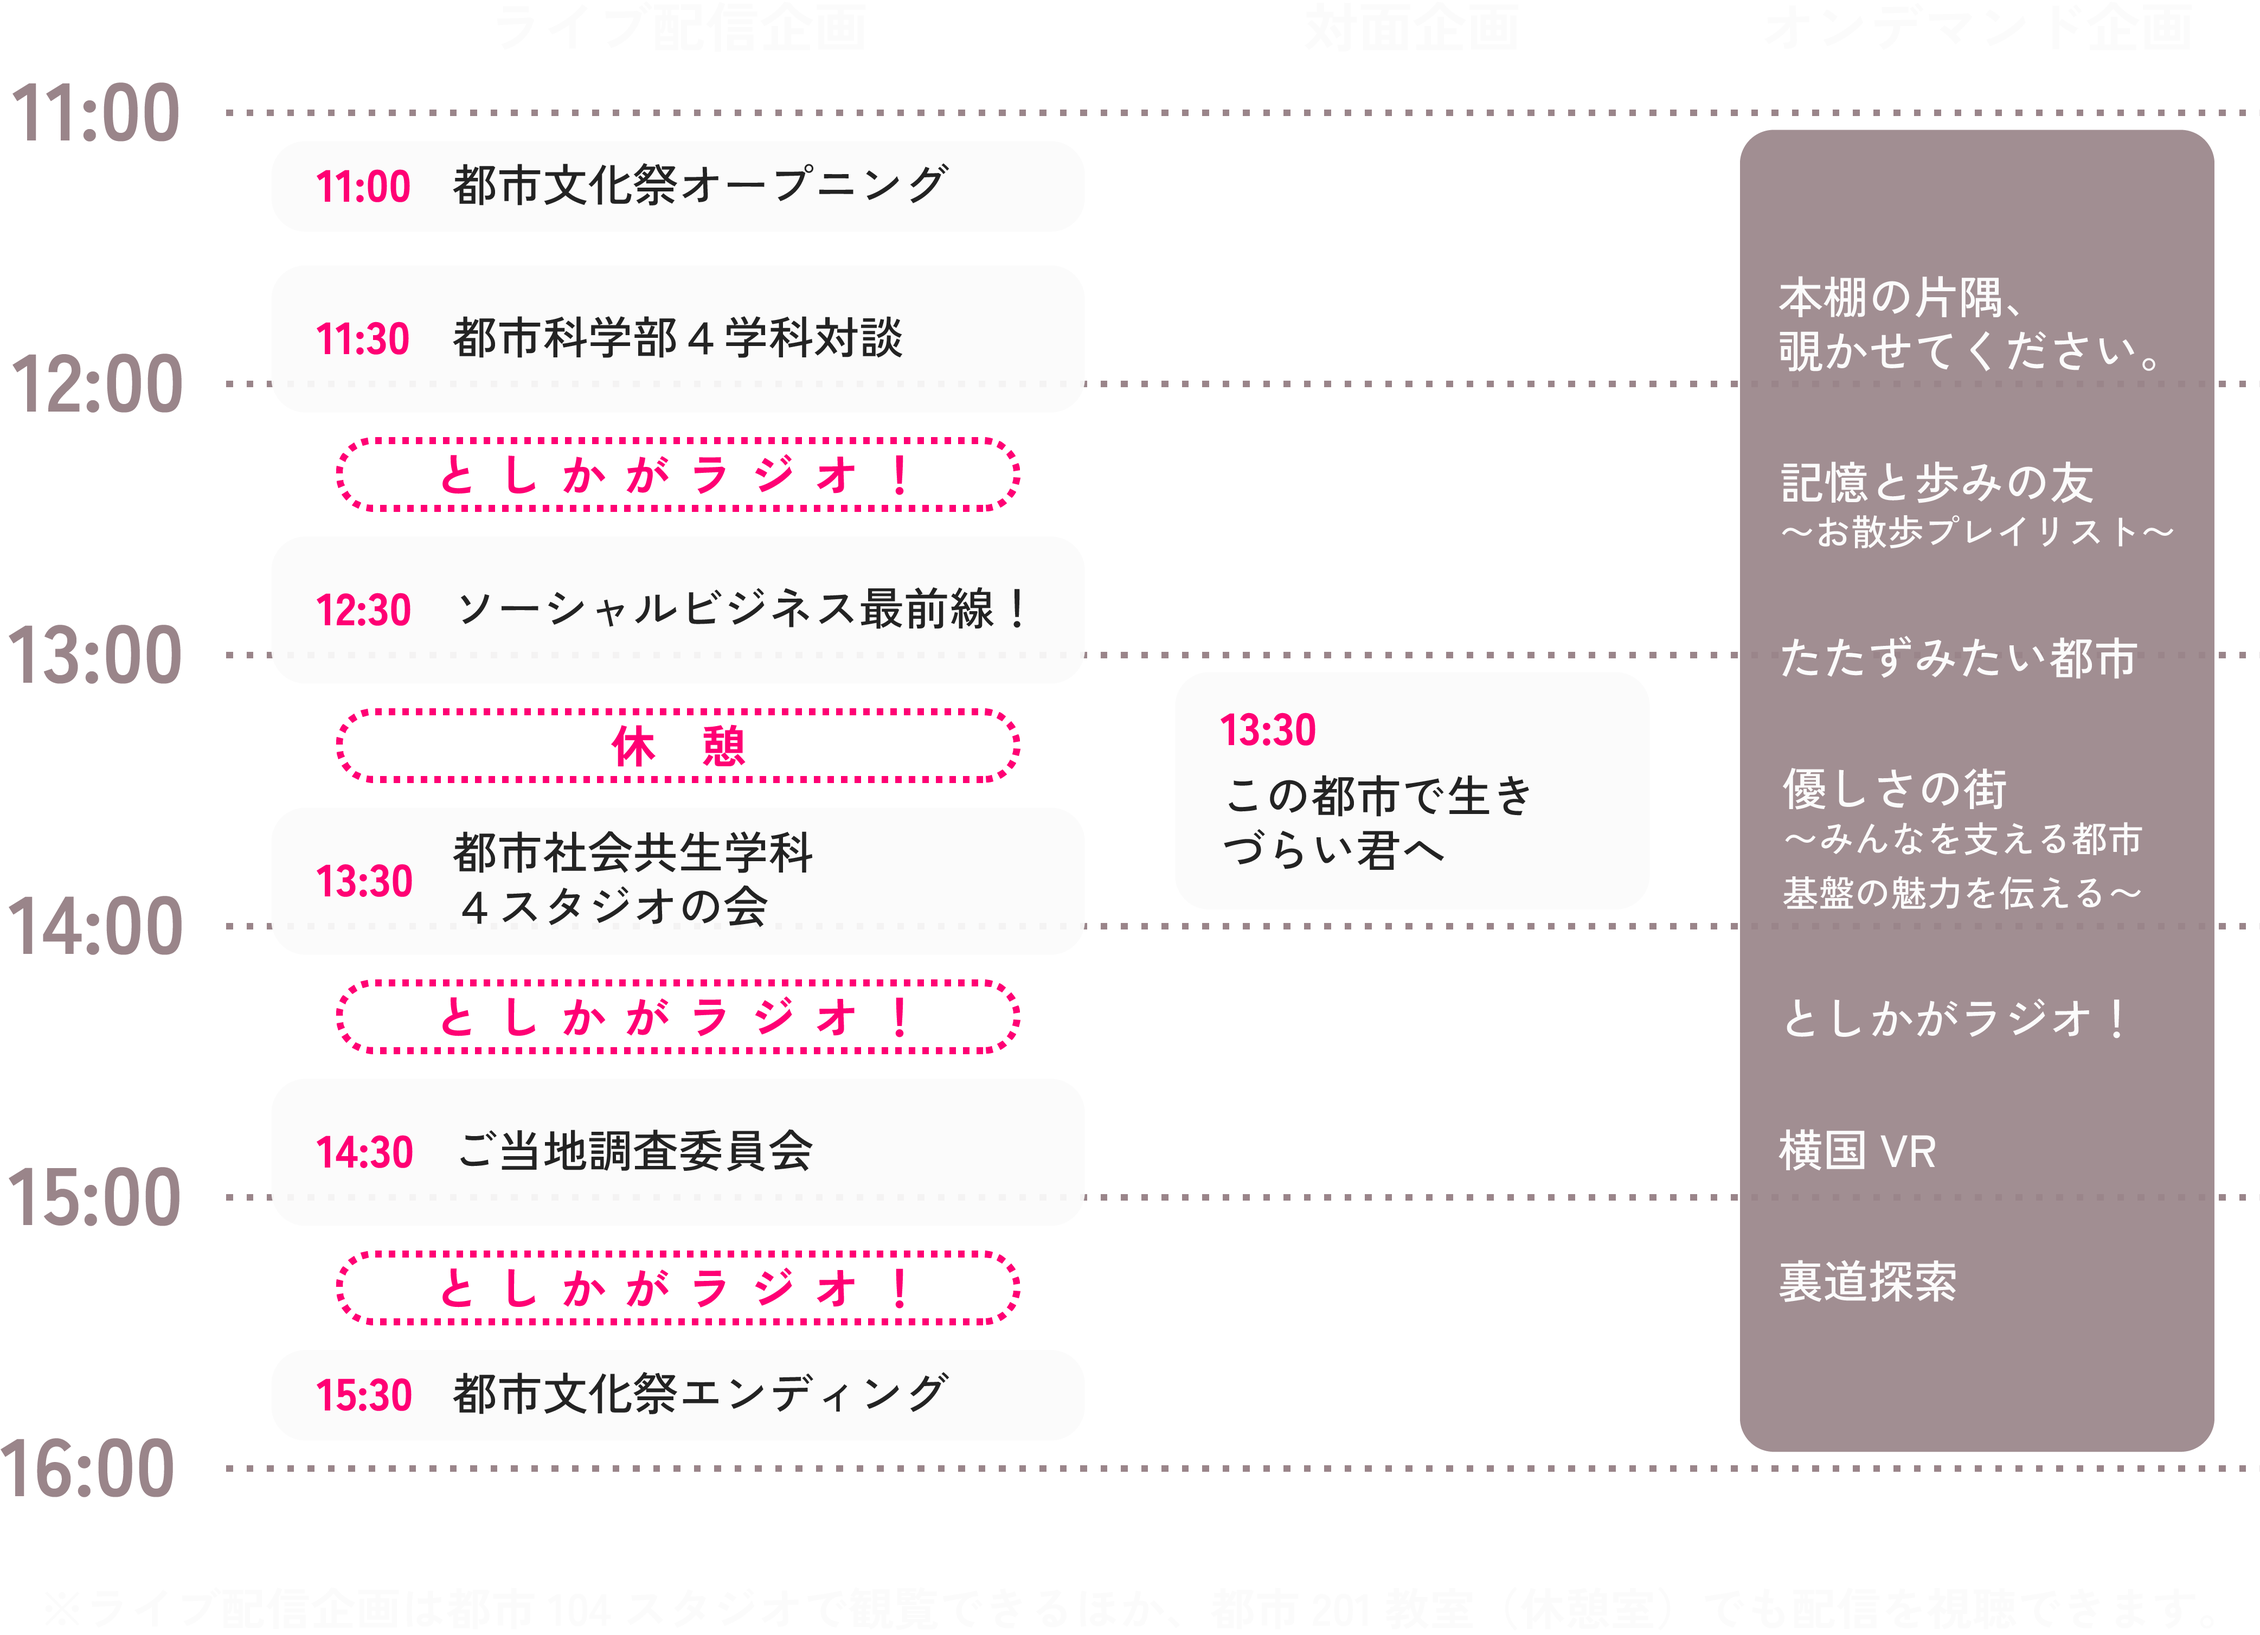
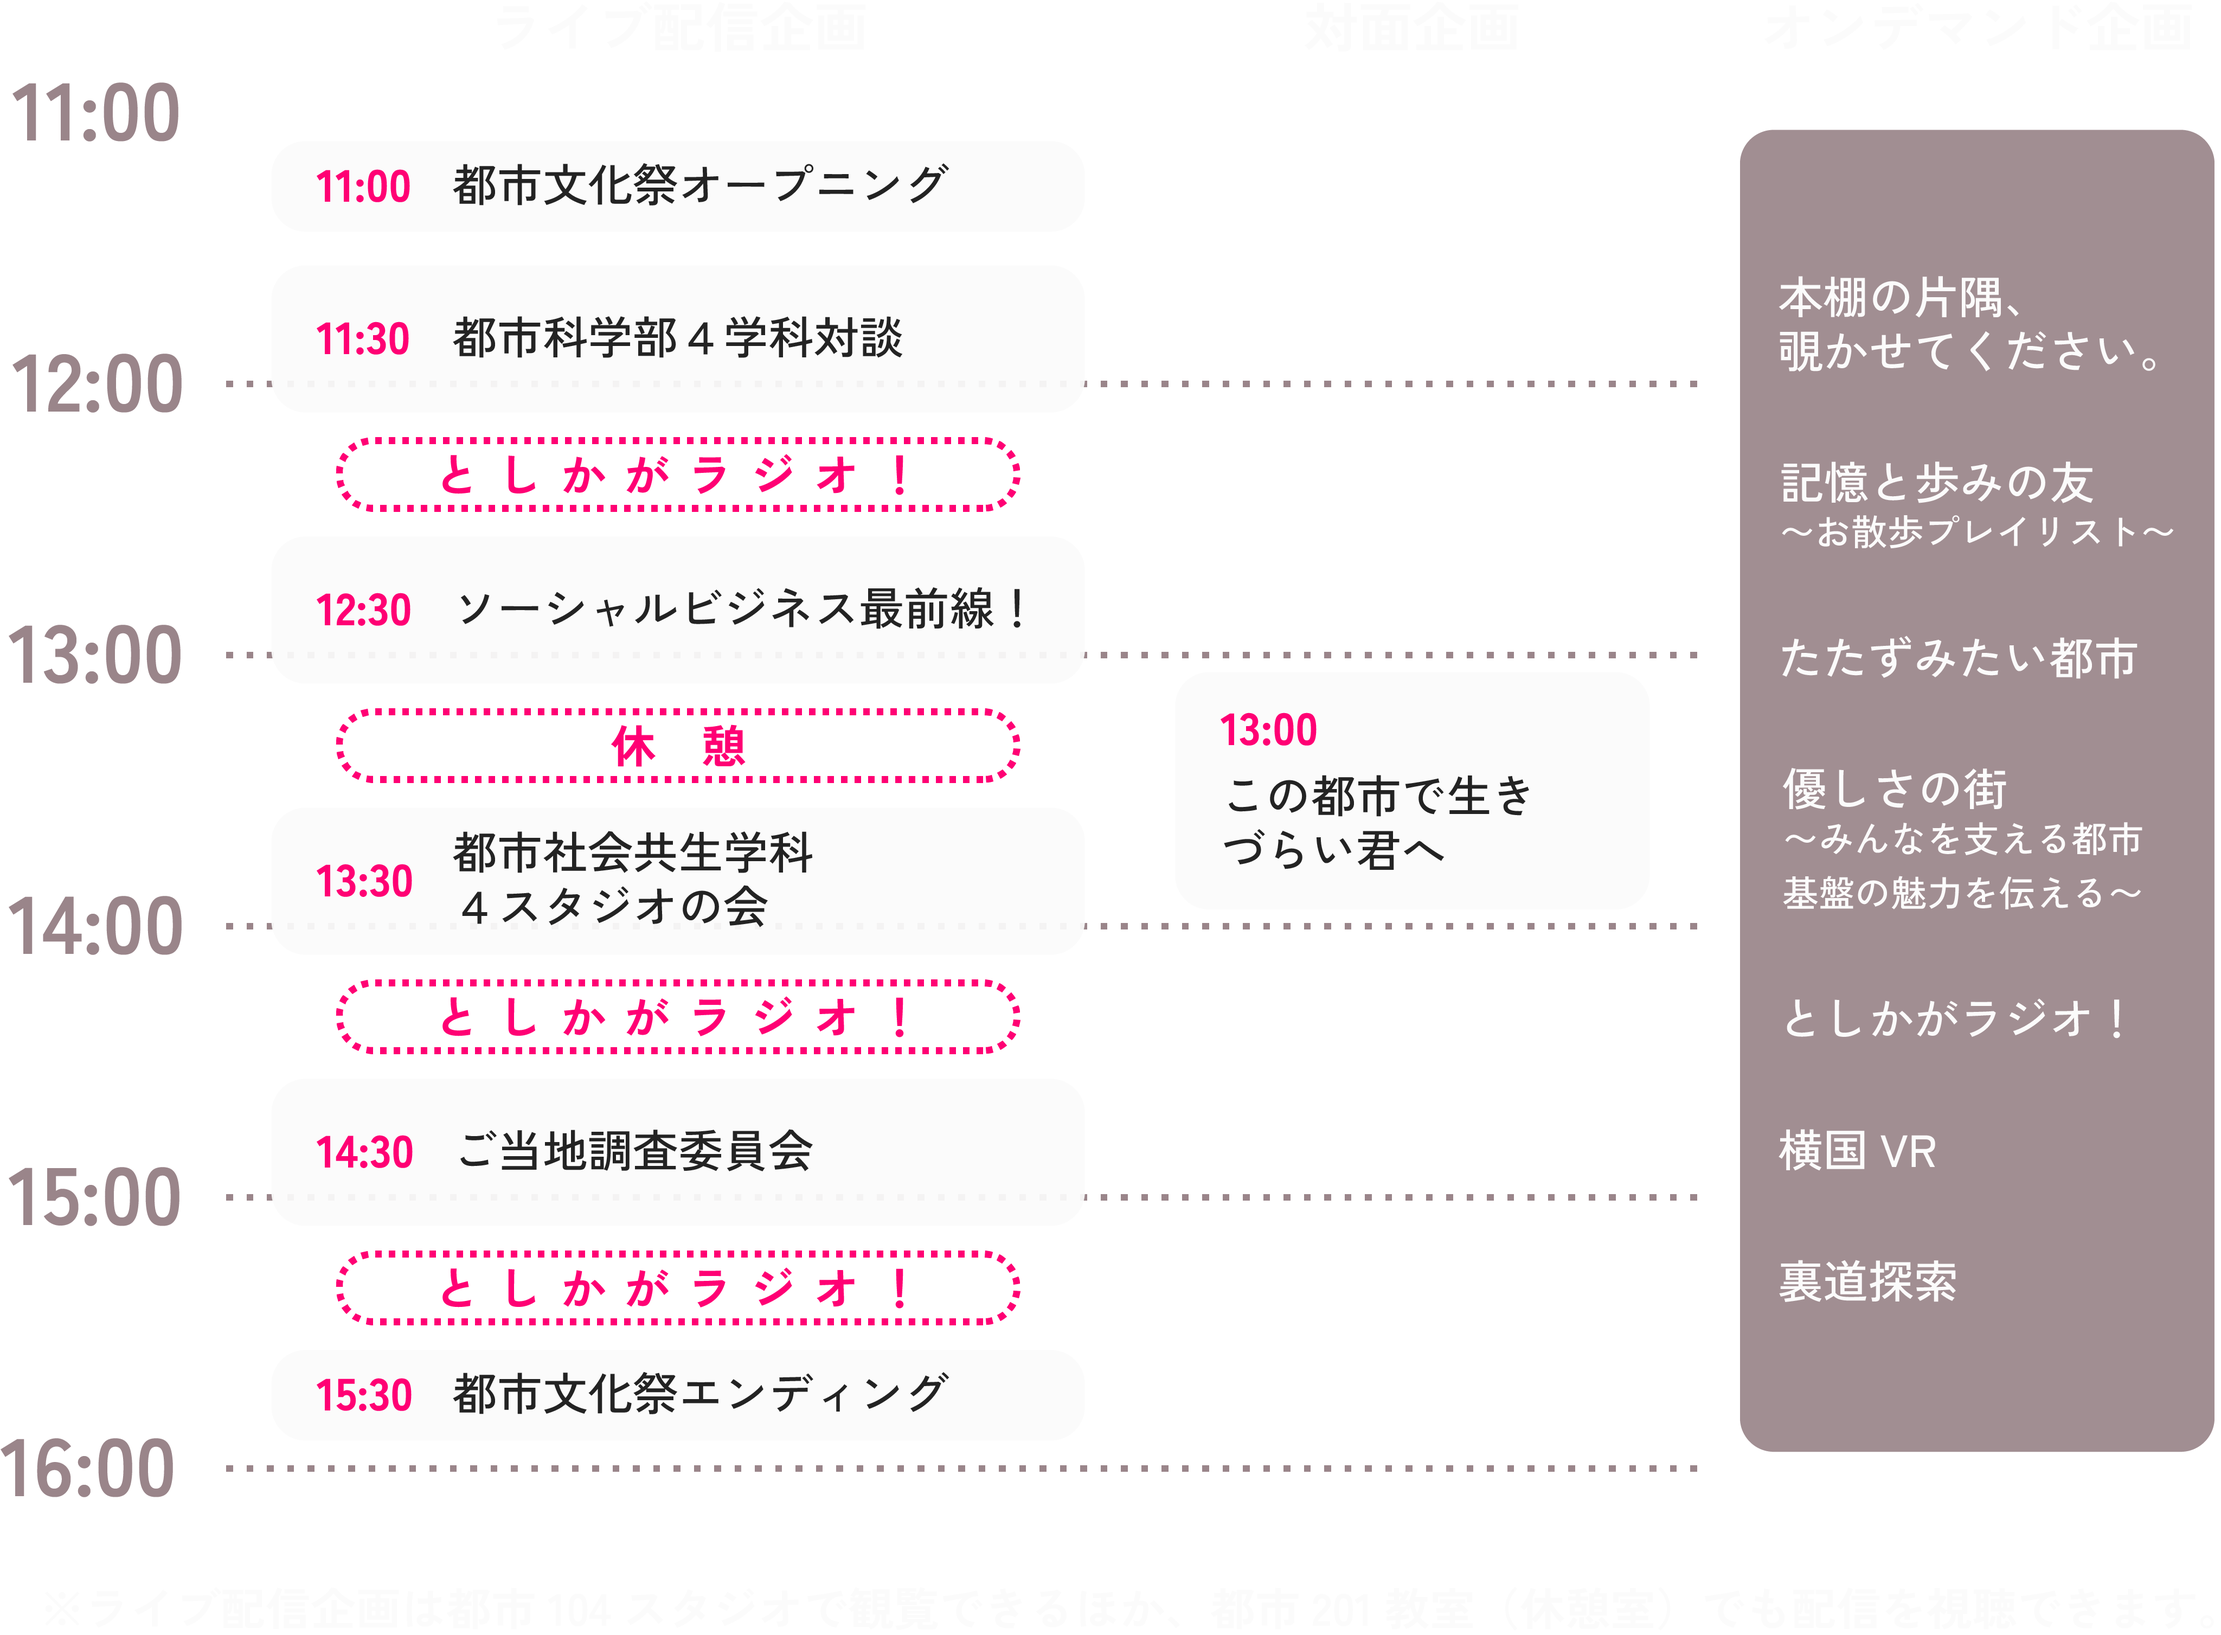
Fix timetable time & dots

diff --git a/components/home/TimeTable.vue b/components/home/TimeTable.vue
@@ -1,7 +1,7 @@
 <template>
   <section class="timetable container fade-up-observe">
     <h2 class="section-heading">タイムテーブル</h2>
-    <img src="timetable.png" alt="" class="timetable" />
+    <img src="timetable.png" alt="" class="timetable-img" />
   </section>
 </template>
 
@@ -9,4 +9,22 @@
 export default {}
 </script>
 
-<style lang="scss" scoped></style>
+<style lang="scss" scoped>
+.timetable {
+  text-align: center;
+  margin-bottom: 48px;
+
+  @include mq() {
+    margin-bottom: 64px;
+  }
+
+  @include mq(lg) {
+    margin-bottom: 80px;
+  }
+}
+
+.timetable-img {
+  width: 100%;
+  max-width: 1050px;
+}
+</style>

diff --git a/pages/index.vue b/pages/index.vue
@@ -6,8 +6,8 @@
     <HomeHeader />
     <div class="content">
       <YouTubeLive />
-      <News :contents="this.contents" />
       <TimeTable />
+      <News :contents="this.contents" />
       <Pickup />
       <Hamburger :baseColor="'white'" />
     </div>
